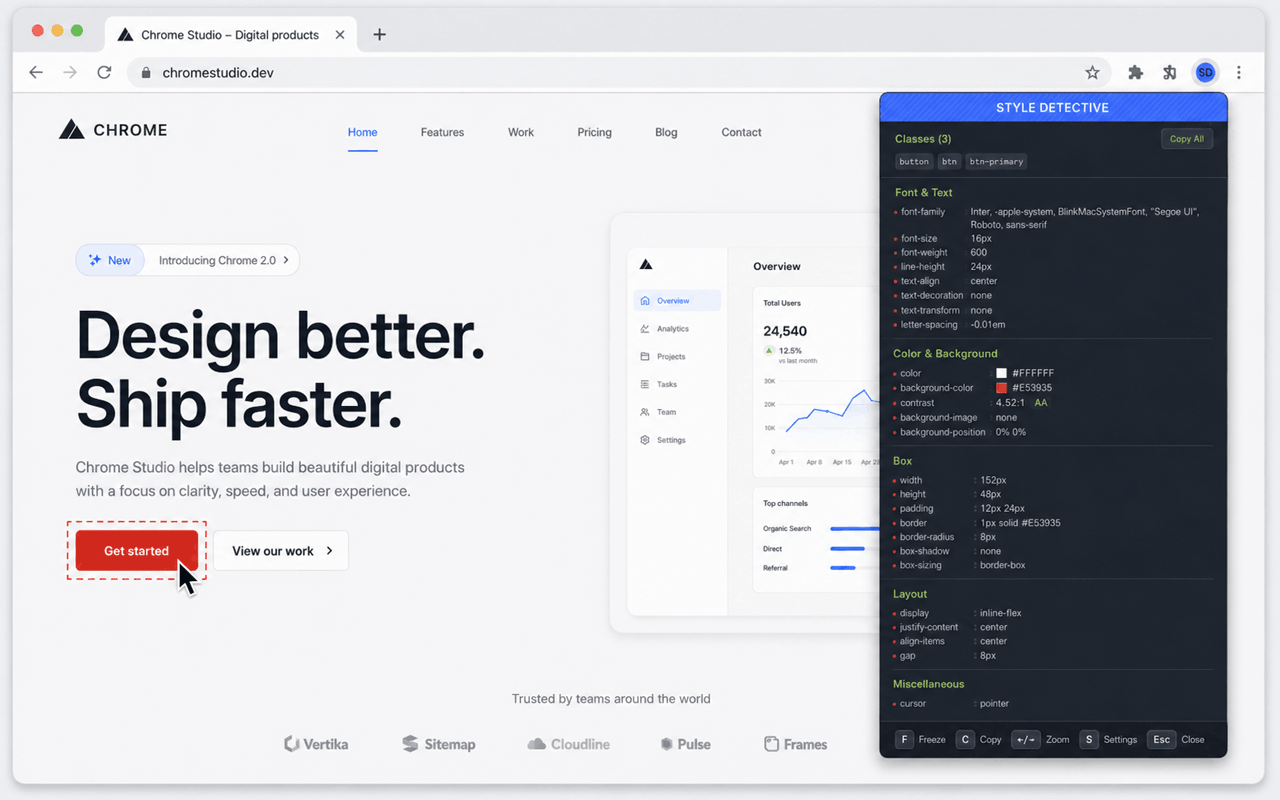
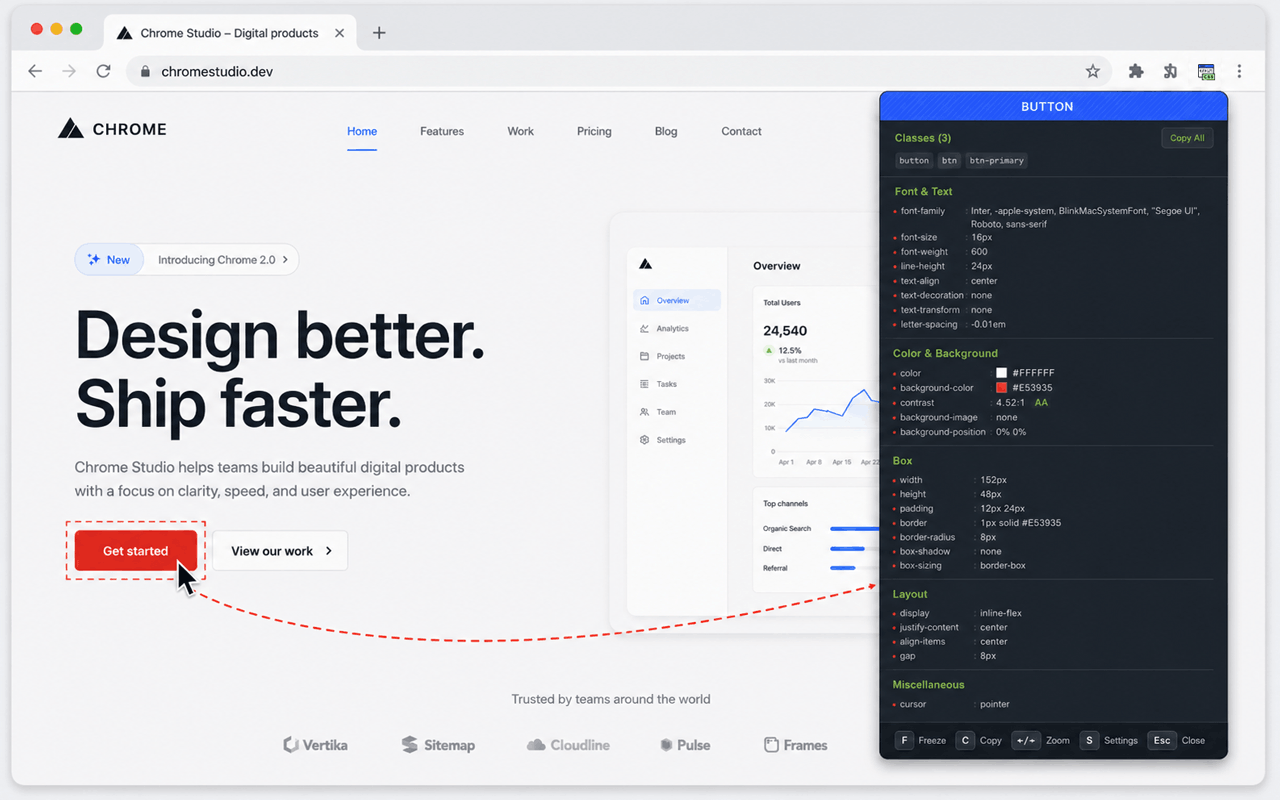
Fix multi-class CSS copy selector and unify copy toast feedback
Copied rules now use compound selectors (tag#id.class); share one CopyNotifier; refresh the store screenshot.

diff --git a/src/content/core.ts b/src/content/core.ts
@@ -8,7 +8,8 @@
  */
 
 import { copyTextToClipboard } from './lib/clipboard';
-import { elementClassName, keepOverlayInViewport, setValueCopyNotifier } from './lib/dom';
+import { setCopyNotifier } from './lib/copy-feedback';
+import { keepOverlayInViewport } from './lib/dom';
 import {
     CSS_CATEGORIES,
     isPropertyEnabled,
@@ -21,7 +22,6 @@ import {
     refreshSelectorOverflow,
     isShowCssClasses,
     setClassesChipLines,
-    setClassesCopyNotifier,
     setShowCssClasses,
     updateClassesPanel,
     updateHeader,
@@ -96,17 +96,24 @@ function removeElement(id: string): void {
 }
 
 /**
+ * Compound selector for the copied rule: `tag#id.class1.class2` (no spaces —
+ * spaces would be descendant combinators and break multi-class elements).
+ */
+function cssDefinitionSelector(el: HTMLElement): string {
+    const classes = parseClassTokens(el)
+        .map((token) => '.' + CSS.escape(token))
+        .join('');
+    const id = el.id === '' ? '' : '#' + CSS.escape(el.id);
+    return el.tagName.toLowerCase() + id + classes;
+}
+
+/**
  * Build a CSS definition for copy. Only includes properties that would appear
  * in the panel (same `when` / `hideDefault` visibility), omits `panelOnly`
  * rows, and skips tag-gated categories that don't match the element.
  */
 function buildCssDefinition(el: HTMLElement, style: CSSStyleDeclaration): string {
-    const className = elementClassName(el);
-    let css =
-        el.tagName.toLowerCase() +
-        (el.id === '' ? '' : ' #' + el.id) +
-        (className === '' ? '' : ' .' + className) +
-        ' {\n';
+    let css = cssDefinitionSelector(el) + ' {\n';
 
     const ctx: InspectContext = {
         style,
@@ -219,11 +226,9 @@ class OverlayController {
 
     /** Load font size, theme, and feature prefs before the first enable(). */
     async loadPrefs(): Promise<void> {
-        const flashCopy = (message: string, tone?: 'default' | 'success') => {
+        setCopyNotifier((message, tone) => {
             this.flashMessage(message, { tone: tone ?? 'default' });
-        };
-        setClassesCopyNotifier(flashCopy);
-        setValueCopyNotifier(flashCopy);
+        });
         await Promise.all([
             this.loadPanelFontSizePref(),
             this.loadPanelThemePref(),

diff --git a/src/content/lib/panel.ts b/src/content/lib/panel.ts
@@ -16,6 +16,7 @@ import {
 } from './properties';
 import { countChipRows, formatClassesForCopy, parseClassTokens } from './classes';
 import { copyTextToClipboard } from './clipboard';
+import { notifyCopy } from './copy-feedback';
 import { el, isOverlayFrozen, keepOverlayInViewport, selectorLabel, setValueContent } from './dom';
 
 const ID_PREFIX = 'StyleDetectiveOverlay__';
@@ -24,8 +25,6 @@ const CATEGORY_HIDDEN = 'StyleDetectiveOverlay__category--hidden';
 const HEADER_EXPANDABLE = 'StyleDetectiveOverlay__header--expandable';
 const HEADER_EXPANDED = 'StyleDetectiveOverlay__header--expanded';
 const CLASSES_HIDDEN = 'StyleDetectiveOverlay__classes--hidden';
-
-type CopyNotifier = (message: string, tone?: 'default' | 'success') => void;
 
 /** Cached DOM nodes for a property row, filled once in createBlock(). */
 interface PropertyRow {
@@ -47,7 +46,6 @@ let showCssClasses = true;
 let classesChipLines = 3;
 let classesShowAllChips = false;
 let currentClassTokens: readonly string[] = [];
-let copyNotifier: CopyNotifier | null = null;
 
 function clearPanelCache(): void {
     propertyRows.clear();
@@ -57,11 +55,6 @@ function clearPanelCache(): void {
     classesCopyAll = null;
     classesChips = null;
     shortcutsContainer = null;
-}
-
-/** Wire overlay copy feedback (toast) for class chip actions. */
-export function setClassesCopyNotifier(notifier: CopyNotifier | null): void {
-    copyNotifier = notifier;
 }
 
 /** Current Show CSS Classes preference (in-memory; storage is owned by callers). */
@@ -85,10 +78,6 @@ export function setClassesChipLines(lines: number): void {
     if (classesRoot && showCssClasses && currentClassTokens.length > 0) {
         refreshClassesChrome(classesRoot.ownerDocument);
     }
-}
-
-function notifyCopy(message: string, tone: 'default' | 'success' = 'success'): void {
-    copyNotifier?.(message, tone);
 }
 
 async function copyClassText(text: string, message: string): Promise<void> {

diff --git a/src/content/lib/dom.ts b/src/content/lib/dom.ts
@@ -7,19 +7,10 @@
  */
 
 import { copyTextToClipboard } from './clipboard';
+import { notifyCopy } from './copy-feedback';
 
 const OVERLAY_ID = 'StyleDetectiveOverlay';
 const FROZEN_CLASS = 'StyleDetectiveOverlay--frozen';
-
-type CopyNotifier = (message: string, tone?: 'default' | 'success') => void;
-
-/** Toast feedback for frozen property-value copy (wired by the overlay controller). */
-let valueCopyNotifier: CopyNotifier | null = null;
-
-/** Wire overlay toast feedback for property-value copy failures. */
-export function setValueCopyNotifier(notifier: CopyNotifier | null): void {
-    valueCopyNotifier = notifier;
-}
 
 /** Tag names we construct, mapped to their element types for `el()`. */
 type TagName = keyof HTMLElementTagNameMap;
@@ -254,7 +245,7 @@ function attachFrozenCopy(
                 }, 900);
             },
             () => {
-                valueCopyNotifier?.('Could not copy to clipboard', 'default');
+                notifyCopy('Could not copy to clipboard', 'default');
             },
         );
     });

diff --git a/src/content/lib/copy-feedback.ts b/src/content/lib/copy-feedback.ts
@@ -1,0 +1,23 @@
+/*!
+ * Overlay toast feedback for copy success / failure.
+ *
+ * Wired once by the overlay controller; used by class chips and frozen
+ * property-value clicks.
+ */
+
+export type CopyNotifier = (message: string, tone?: 'default' | 'success') => void;
+
+let copyNotifier: CopyNotifier | null = null;
+
+/** Wire overlay toast feedback for all copy actions. */
+export function setCopyNotifier(notifier: CopyNotifier | null): void {
+    copyNotifier = notifier;
+}
+
+/** Show copy feedback when a notifier is wired. */
+export function notifyCopy(
+    message: string,
+    tone: 'default' | 'success' = 'success',
+): void {
+    copyNotifier?.(message, tone);
+}
